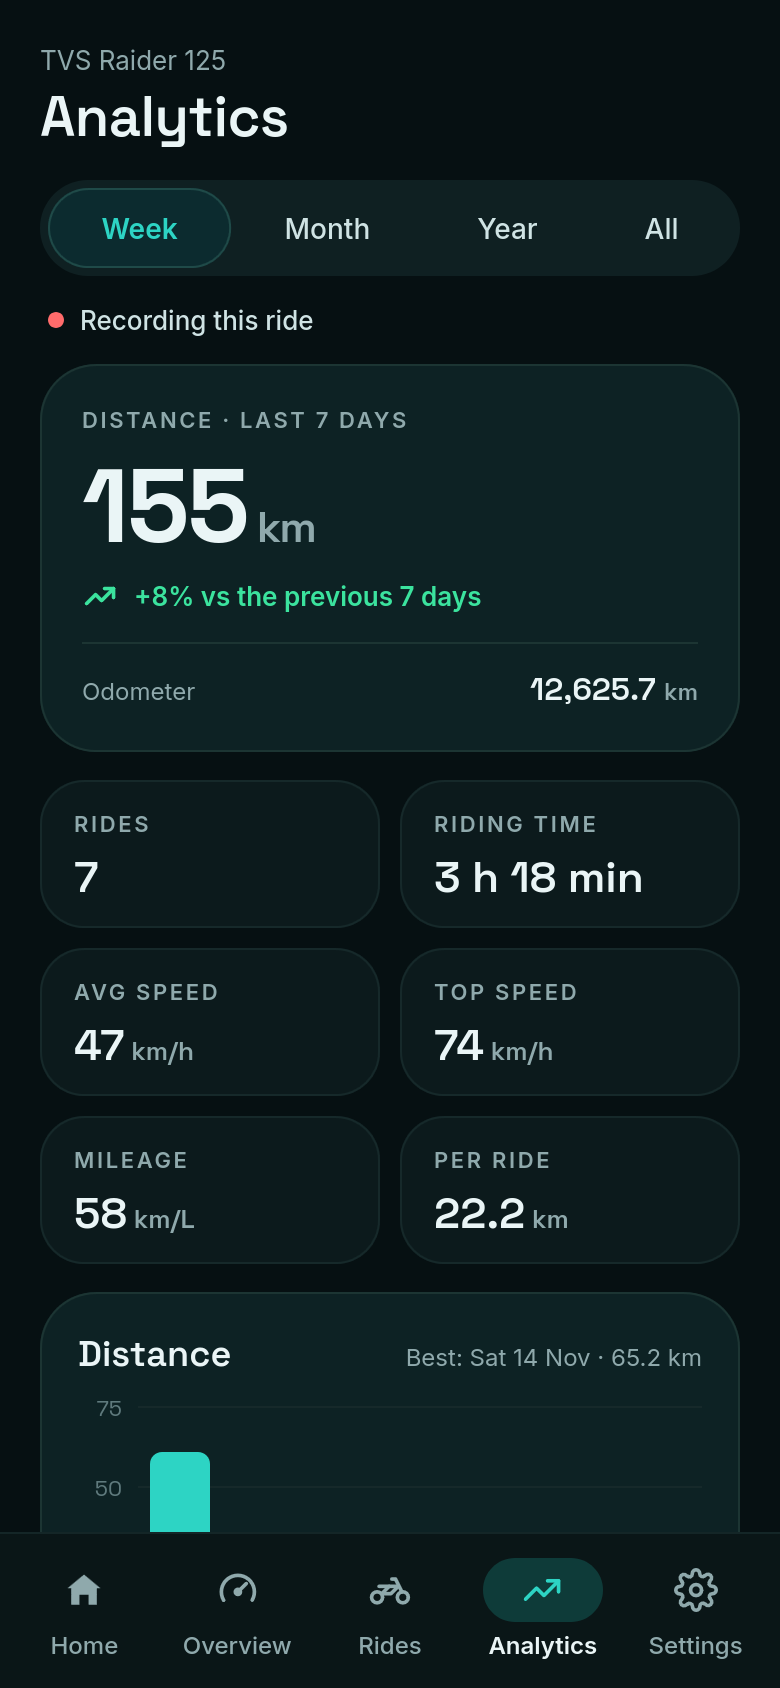
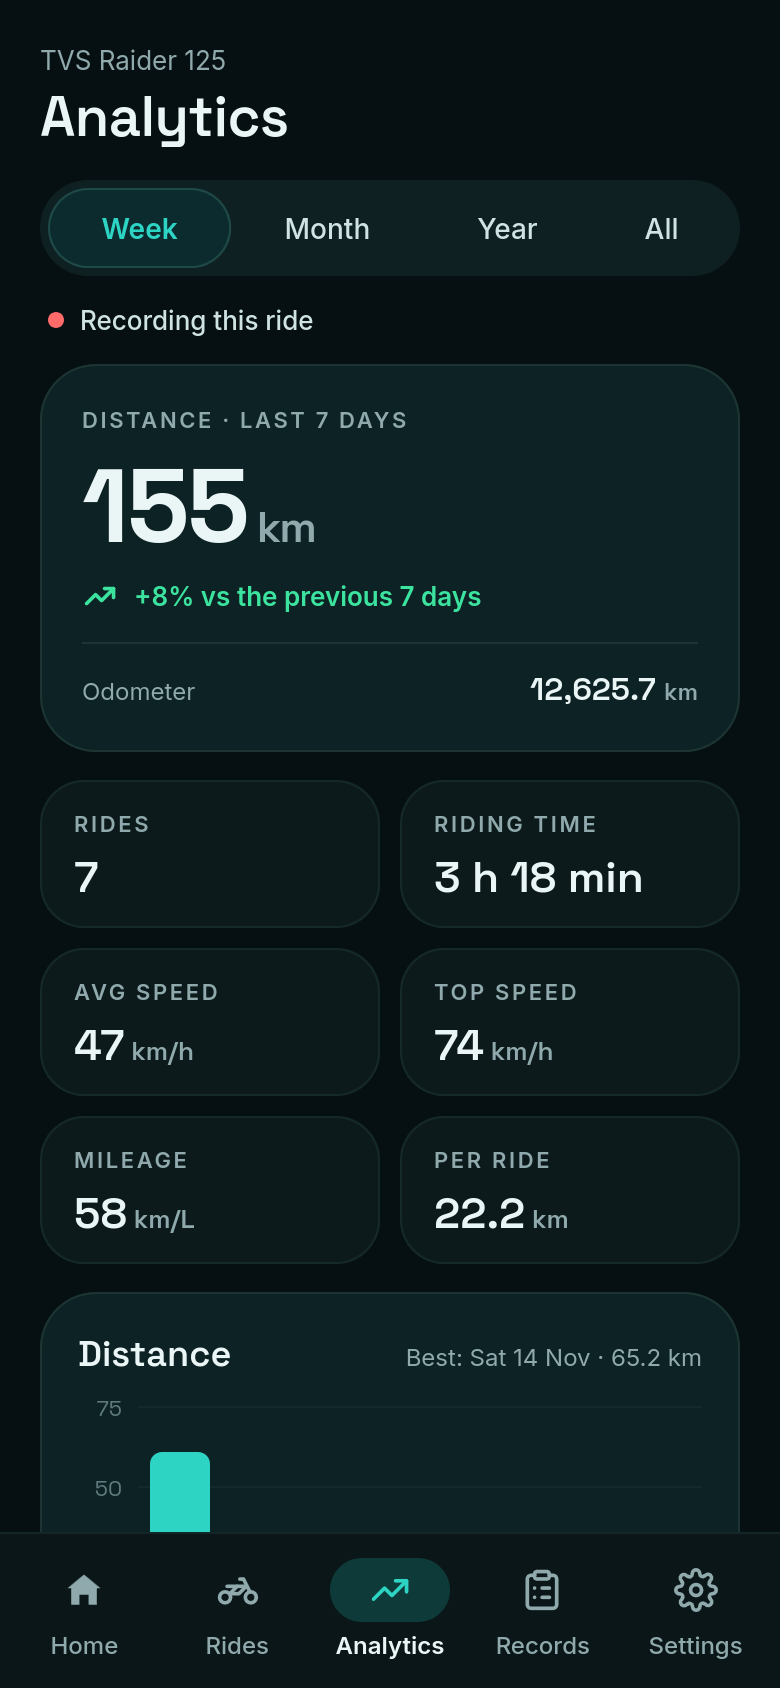
New screenshots: Records added, Overview and the scrolled Settings removed.
Six screens in two rows of three in the README and on the website.

Changed region(s): [[0.4, 0.9242, 0.5846, 0.9858], [0.6154, 0.9242, 0.7692, 0.9858], [0.2462, 0.9242, 0.3692, 0.9858]]

diff --git a/docs/index.html b/docs/index.html
@@ -110,8 +110,8 @@
   .ghost { color: var(--text); border: 1px solid var(--ghost-line); background: var(--ghost-bg); }
 
   /* screenshots: one dark and one light image per screen, the theme picks which shows */
-  .shots { display: flex; flex-wrap: wrap; justify-content: center; gap: 28px 16px; margin: 64px 0; }
-  .shots figure { margin: 0; width: calc((100% - 3 * 16px) / 4); }
+  .shots { display: flex; flex-wrap: wrap; justify-content: center; gap: 28px 16px; max-width: 720px; margin: 64px auto; }
+  .shots figure { margin: 0; width: calc((100% - 2 * 16px) / 3); }
   .shots img {
     width: 100%; height: auto; display: block; border-radius: 20px;
     border: 1px solid var(--line);
@@ -243,37 +243,32 @@
 
   <div class="shots">
     <figure>
-      <img class="dark" src="screens/home-dark.png" width="780" height="1688" alt="Home screen while navigating: next turn, time left, fuel, mileage, battery, speed and engine RPM">
-      <img class="light" src="screens/home-light.png" width="780" height="1688" alt="Home screen while navigating, light theme" loading="lazy">
+      <img class="dark" src="screens/home-dark.png" width="780" height="1688" alt="Home screen while navigating: next turn, time left, fuel, mileage, battery, gear, ride mode and speed">
+      <img class="light" src="screens/home-light.png" width="780" height="1688" alt="Home screen, light theme" loading="lazy">
       <figcaption>Home</figcaption>
     </figure>
     <figure>
-      <img class="dark" src="screens/overview-dark.png" width="780" height="1688" alt="Overview screen: fuel bars, gear, ECO or POWER mode, odometer, trip B, average mileage and battery">
-      <img class="light" src="screens/overview-light.png" width="780" height="1688" alt="Overview screen, light theme" loading="lazy">
-      <figcaption>Overview</figcaption>
-    </figure>
-    <figure>
-      <img class="dark" src="screens/rides-dark.png" width="780" height="1688" alt="Rides screen: every ride with its date, distance, time, average and top speed">
+      <img class="dark" src="screens/rides-dark.png" width="780" height="1688" alt="Rides screen: every ride with its date, distance, time, average and top speed" loading="lazy">
       <img class="light" src="screens/rides-light.png" width="780" height="1688" alt="Rides screen, light theme" loading="lazy">
       <figcaption>Rides</figcaption>
     </figure>
     <figure>
-      <img class="dark" src="screens/analytics-dark.png" width="780" height="1688" alt="Analytics screen: distance for the week with the change from last week, rides, riding time, speeds, mileage and a distance chart">
+      <img class="dark" src="screens/analytics-dark.png" width="780" height="1688" alt="Analytics screen: distance for the week with the change from last week, rides, riding time, speeds, mileage and a distance chart" loading="lazy">
       <img class="light" src="screens/analytics-light.png" width="780" height="1688" alt="Analytics screen, light theme" loading="lazy">
       <figcaption>Analytics</figcaption>
     </figure>
     <figure>
-      <img class="dark" src="screens/settings-dark.png" width="780" height="1688" alt="Settings screen: bike, Mirror navigation, Ride mode, speed and RPM alerts, and Calls on the cluster">
+      <img class="dark" src="screens/records-dark.png" width="780" height="1688" alt="Records screen: the fuel fill-up form with date, time, shed, litres, price and how you paid" loading="lazy">
+      <img class="light" src="screens/records-light.png" width="780" height="1688" alt="Records screen, light theme" loading="lazy">
+      <figcaption>Records</figcaption>
+    </figure>
+    <figure>
+      <img class="dark" src="screens/settings-dark.png" width="780" height="1688" alt="Settings screen: bike, Mirror navigation, Ride mode, speed and RPM alerts, and Calls on the cluster" loading="lazy">
       <img class="light" src="screens/settings-light.png" width="780" height="1688" alt="Settings screen, light theme" loading="lazy">
       <figcaption>Settings</figcaption>
     </figure>
     <figure>
-      <img class="dark" src="screens/settings-more-dark.png" width="780" height="1688" alt="Settings screen scrolled: appearance, setup, data and developer options with log saving, export and delete">
-      <img class="light" src="screens/settings-more-light.png" width="780" height="1688" alt="Settings screen scrolled, light theme" loading="lazy">
-      <figcaption>Settings</figcaption>
-    </figure>
-    <figure>
-      <img class="dark" src="screens/logs-dark.png" width="780" height="1688" alt="Logs screen: the live log, filtered by bike data, Maps or status">
+      <img class="dark" src="screens/logs-dark.png" width="780" height="1688" alt="Logs screen: the live log, filtered by bike data, Maps or status" loading="lazy">
       <img class="light" src="screens/logs-light.png" width="780" height="1688" alt="Logs screen, light theme" loading="lazy">
       <figcaption>Logs</figcaption>
     </figure>

diff --git a/README.md b/README.md
@@ -18,32 +18,28 @@ The next turn, how far to it, and how long to go, on the bike's own screen, with
 <p align="center">
   <picture>
     <source media="(prefers-color-scheme: light)" srcset="docs/screens/home-light.png">
-    <img src="docs/screens/home-dark.png" width="22%" alt="Home screen while navigating: next turn, time left, fuel, mileage, battery, speed and engine RPM">
-  </picture>
-  <picture>
-    <source media="(prefers-color-scheme: light)" srcset="docs/screens/overview-light.png">
-    <img src="docs/screens/overview-dark.png" width="22%" alt="Overview screen: fuel bars, gear, ECO or POWER mode, odometer, trip B, average mileage and battery">
+    <img src="docs/screens/home-dark.png" width="30%" alt="Home screen while navigating: next turn, time left, fuel, mileage, battery, gear, ride mode and speed">
   </picture>
   <picture>
     <source media="(prefers-color-scheme: light)" srcset="docs/screens/rides-light.png">
-    <img src="docs/screens/rides-dark.png" width="22%" alt="Rides screen: every ride with its date, distance, time, average and top speed">
+    <img src="docs/screens/rides-dark.png" width="30%" alt="Rides screen: every ride with its date, distance, time, average and top speed">
   </picture>
   <picture>
     <source media="(prefers-color-scheme: light)" srcset="docs/screens/analytics-light.png">
-    <img src="docs/screens/analytics-dark.png" width="22%" alt="Analytics screen: distance for the week with the change from last week, rides, riding time, speeds, mileage and a distance chart">
+    <img src="docs/screens/analytics-dark.png" width="30%" alt="Analytics screen: distance for the week with the change from last week, rides, riding time, speeds, mileage and a distance chart">
   </picture>
   <br>
   <picture>
-    <source media="(prefers-color-scheme: light)" srcset="docs/screens/settings-light.png">
-    <img src="docs/screens/settings-dark.png" width="22%" alt="Settings screen: bike, Mirror navigation, Ride mode, speed and RPM alerts, and Calls on the cluster">
+    <source media="(prefers-color-scheme: light)" srcset="docs/screens/records-light.png">
+    <img src="docs/screens/records-dark.png" width="30%" alt="Records screen: the fuel fill-up form with date, time, shed, litres, price and how you paid">
   </picture>
   <picture>
-    <source media="(prefers-color-scheme: light)" srcset="docs/screens/settings-more-light.png">
-    <img src="docs/screens/settings-more-dark.png" width="22%" alt="Settings screen scrolled: appearance, setup, data and developer options with log saving, export and delete">
+    <source media="(prefers-color-scheme: light)" srcset="docs/screens/settings-light.png">
+    <img src="docs/screens/settings-dark.png" width="30%" alt="Settings screen: bike, Mirror navigation, Ride mode, speed and RPM alerts, and Calls on the cluster">
   </picture>
   <picture>
     <source media="(prefers-color-scheme: light)" srcset="docs/screens/logs-light.png">
-    <img src="docs/screens/logs-dark.png" width="22%" alt="Logs screen: the live log, filtered by bike data, Maps or status">
+    <img src="docs/screens/logs-dark.png" width="30%" alt="Logs screen: the live log, filtered by bike data, Maps or status">
   </picture>
 </p>
 
